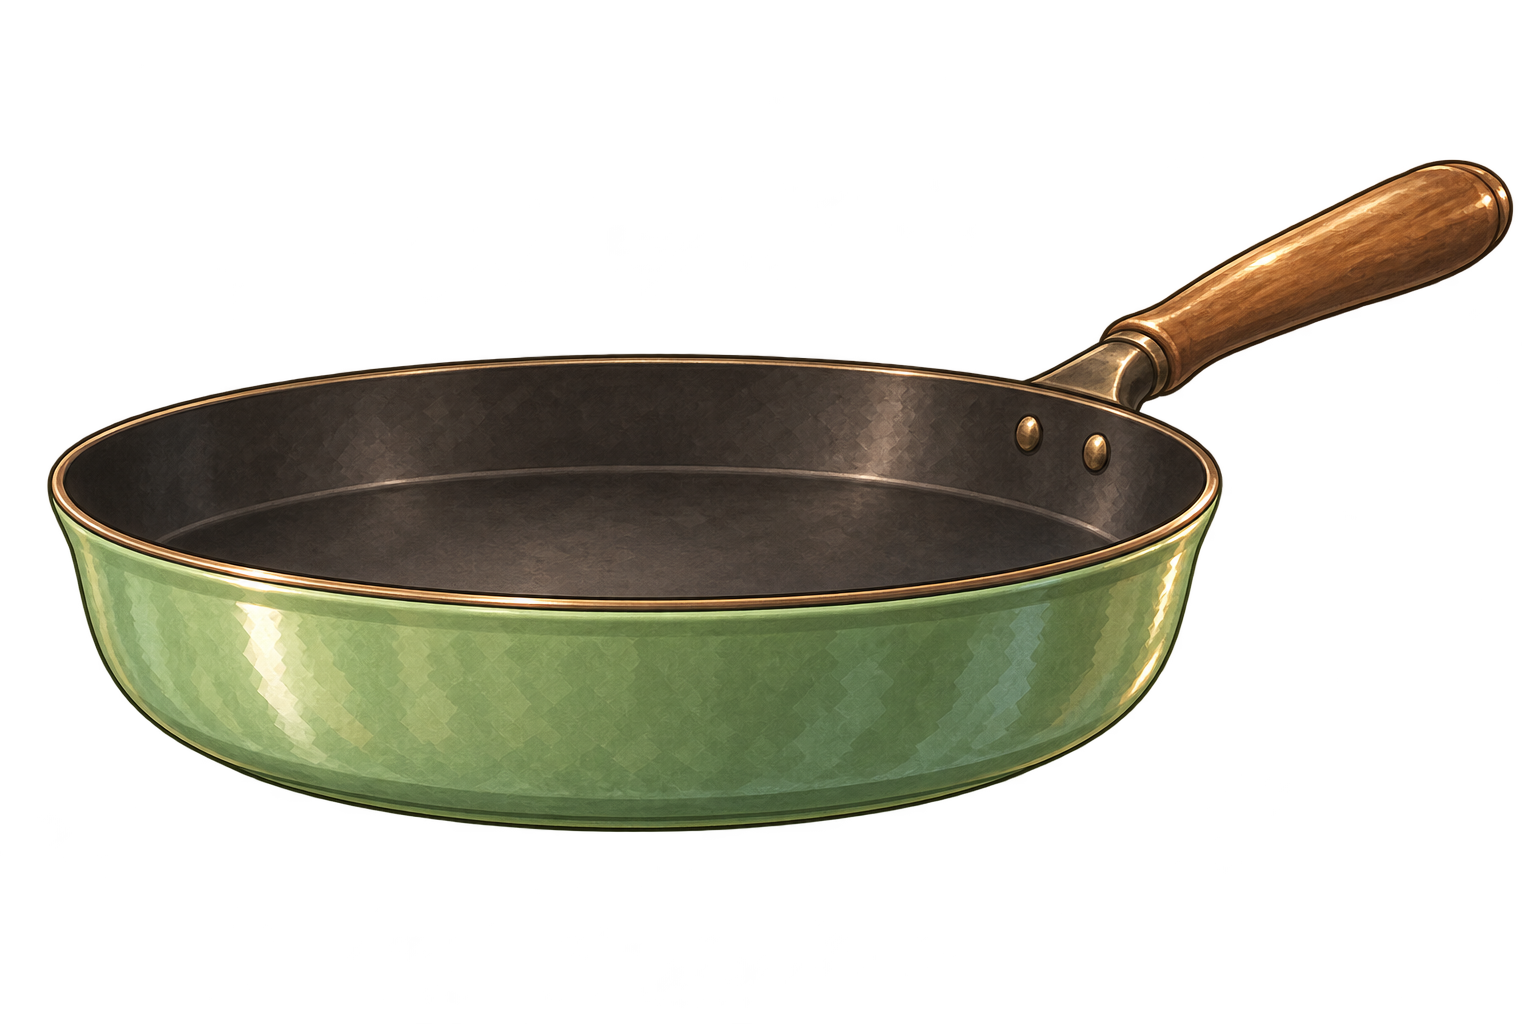
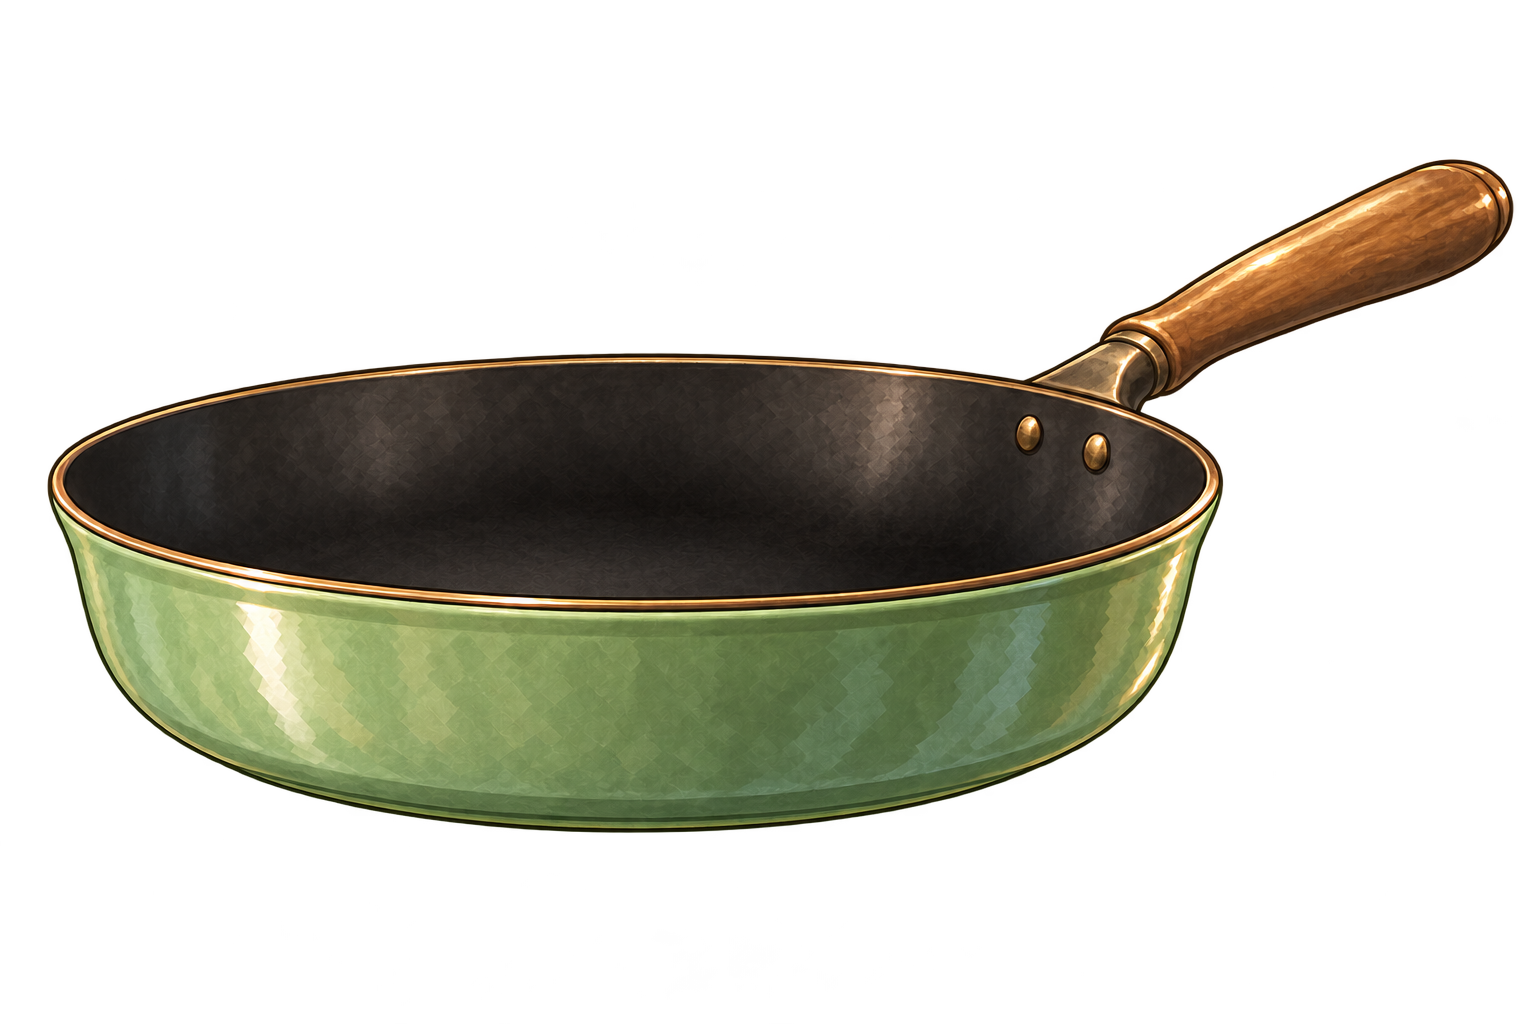
Remove the raised floor line from the frying pan artwork

diff --git a/dist/asset-manifest.js b/dist/asset-manifest.js
@@ -148,10 +148,10 @@ const manifest={
     "bytes": 55992
   },
   "frying-pan.png": {
-    "src": "assets/frying-pan.33019029004ebe05.webp",
+    "src": "assets/frying-pan.073360131ba2811f.webp",
     "width": 1536,
     "height": 1024,
-    "bytes": 1027004
+    "bytes": 976396
   },
   "frying-pot.png": {
     "src": "assets/frying-pot.ab377e6f43535a87.webp",

diff --git a/docs/COOKING_ART_HANDOFF.md b/docs/COOKING_ART_HANDOFF.md
@@ -47,3 +47,7 @@
 器具の原画→接地影→食材→手前の縁と側面の順で表示する。`scenes.js` の `.pan-front` は器具のデコード完了後に同じURLを背景として再利用し、CSSのSVGマスクで手前の壁だけを見せる。別の画像ファイルは作らない。親の `stage-object` と一緒に動くため、フライパンの前後がずれない。ふた付き器具・完成料理へ移る際は手前レイヤーと影も取り除き、器具の画像失敗時は表示しない。
 
 ハンバーグはユーザー指定により、緑の側面で半分以上を隠す。`bottom:22%` で上部のみを見せる配置が現行。1000/390/320pxで肉の画素の約66%が器具前面で隠れることを測定済み。原画の比率は保ったまま位置で深さを調整し、肉のほぼ全体を見せる以前の配置へ戻さない。
+
+## フライパン内側の原画修正
+
+`artwork/originals/frying-pan.png` の内側にあった明るい弧状の境界線を除去し、底へ連続的に暗くなる陰影へ修正。1536×1024のRGBA原画を維持し、外形・緑の側面・柄・前面マスクの構成はそのまま。修正前は `frying-pan-before-depth.png` に保存（配信登録せず、制作比較用のみ）。配信画像は同じ論理名の置換であり、画像数は61点のまま。
